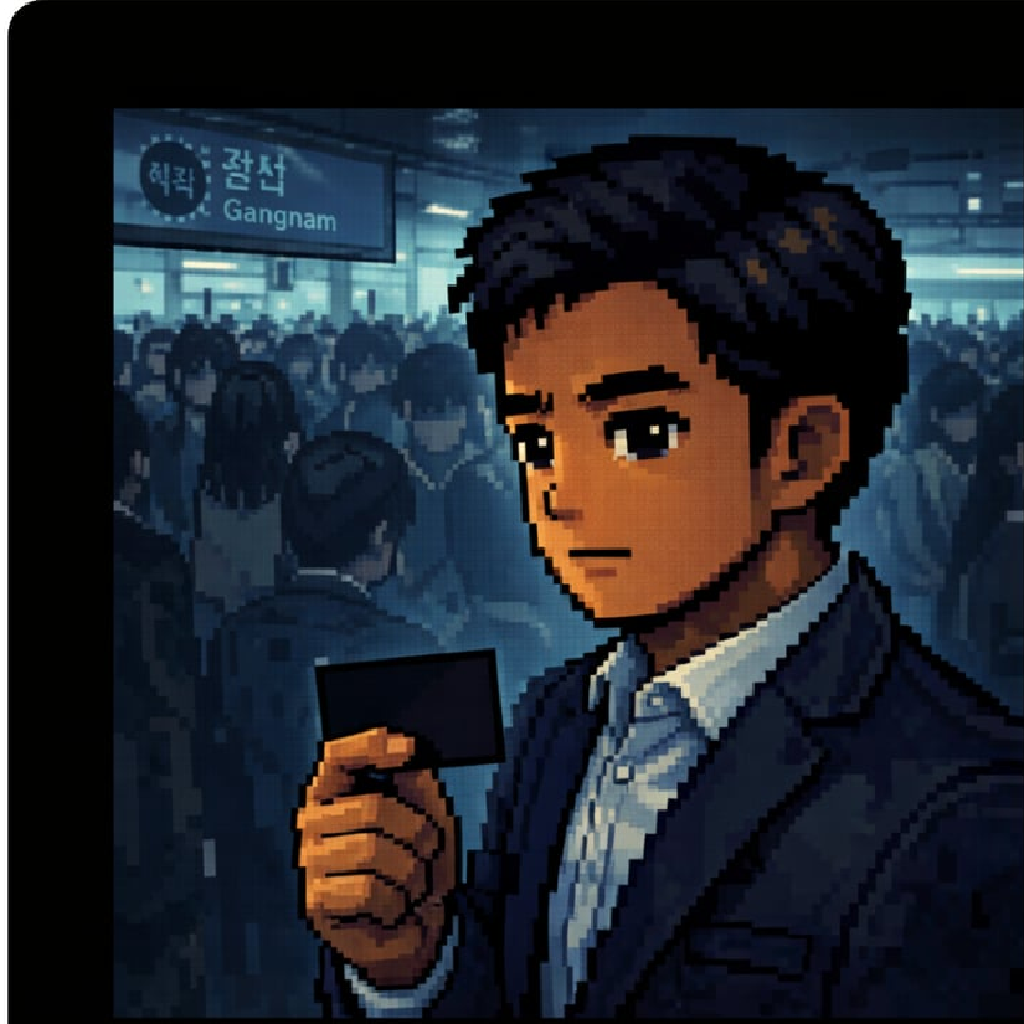
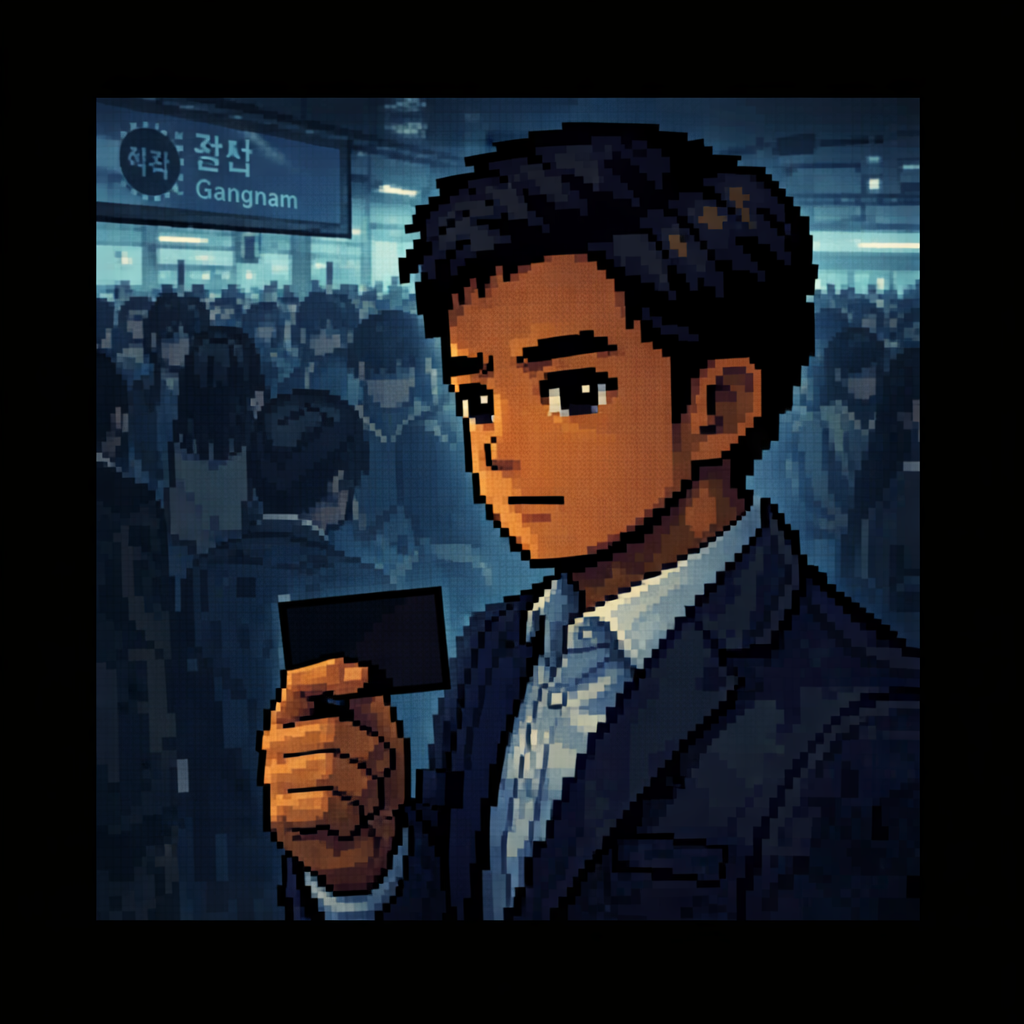
v4.14: replace all illustrations with user-downloaded originals (SW v55)

diff --git a/sw.js b/sw.js
@@ -1,5 +1,5 @@
 // Service Worker - 캐싱으로 빠른 로딩 + 업데이트 안정화(모바일 대응)
-const CACHE_NAME = 'hogeon-mystery-v54';
+const CACHE_NAME = 'hogeon-mystery-v55';
 
 // NOTE: GitHub Pages에서는 쿼리스트링이 붙어도 동일 리소스를 서빙함
 //       (story.json?v=...) 형태를 함께 캐싱하면, 모바일에서 구버전 고착을 줄일 수 있음

diff --git a/CHANGELOG.md b/CHANGELOG.md
@@ -1,5 +1,17 @@
 # 변경 이력 (Changelog)
 
+## v4.14 (2026-02-15) - 🖼 **사용자 다운로드 원본 일러스트로 전체 교체**
+
+### 변경
+- 프롤로그 + 엔딩 9종 이미지를 사용자 다운로드 원본으로 교체(캡쳐 UI/여백 없이 깔끔한 버전)
+  - `prologue.png`
+  - `ending_lotto.png`, `ending_ship.png`, `ending_hospital.png`, `ending_witness.png`, `ending_isekai.png`, `ending_spy.png`, `ending_religion.png`, `ending_business.png`, `ending_overseas.png`
+
+### 기술
+- Service Worker 캐시 버전 bump (v55)
+
+---
+
 ## v4.12 (2026-02-15) - 🖼 **프롤로그 일러스트 클린 버전 교체 + 참조 이미지 추적 해제**
 
 ### 변경
